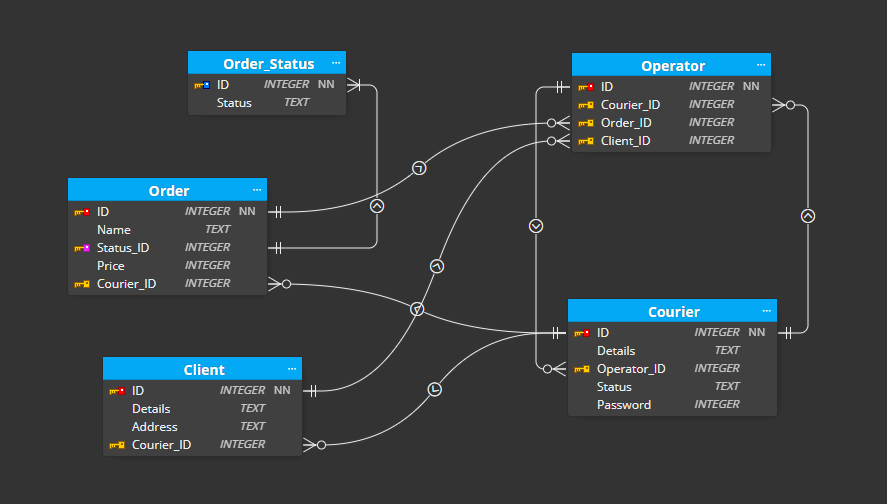
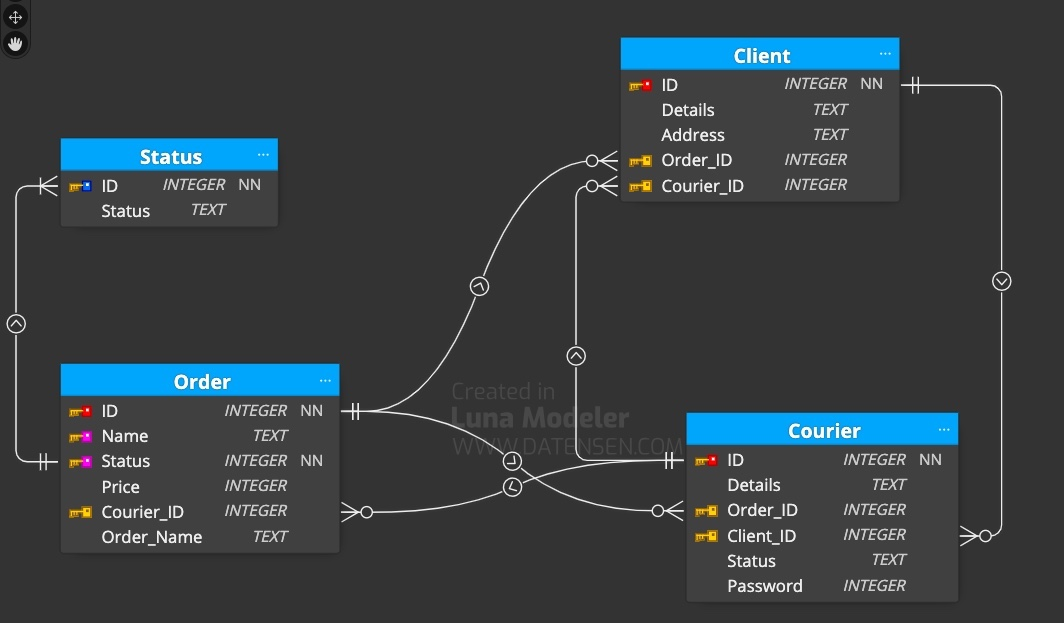
hfgjghjgh

diff --git a/src/repository/repository.py b/src/repository/repository.py
@@ -4,7 +4,7 @@ import sqlite3
 import xml.etree.ElementTree as ET
 import yaml
 
-from src.models.models import Order, Client, Operator, Courier
+from src.models.models import Order, Client, Courier
 
 
 class Repository:
@@ -24,16 +24,40 @@ class Repository:
         return Order(id=row["ID"], name=row["Name"], status=row["Status"], price=row["Price"], courier_id=row["Courier_ID"])
     
     def get_courier(self, id: int):
-        self.cursor.execute("SELECT ID, Details, Order_ID, Client_ID, Operator_ID, Status, Password FROM Courier WHERE ID = ?", (id,))
+        self.cursor.execute("SELECT ID, Details, Order_ID, Client_ID, Status, Password FROM Courier WHERE ID = ?", (id,))
         row = self.cursor.fetchone()
-        return Courier(id=row["ID"], details=row["Details"], status=row["Status"], order_id=row["Order_ID"], client_id=row["Client_ID"], operator_id=row["Operator_ID"], password=row["Password"])
+        return Courier(id=row["ID"], details=row["Details"], status=row["Status"], order_id=row["Order_ID"], client_id=row["Client_ID"], password=row["Password"])
 
-    def update_order_status(self, order_id: int, status: str):
-        self.cursor.execute("UPDATE Orders SET Status = ? WHERE ID = ?", (status, order_id))
+    def update_order_status(self, order_id: int):
+        stat=["На складе", "В работе", "Отменен", "Доставлен"]
+        print("\nВыберите новый статус")
+        print('1 - На складе')
+        print("2 - В работе")
+        print('3 - Отменен')
+        print('4 - Доставлен')
+        try:
+            status_id = int(input("\nВаш выбор: "))
+        except ValueError:
+            print('Ошибка ввода!')
+            return 0
+        if 0<status_id<5:
+            self.cursor.execute("UPDATE Orders SET Status = ? WHERE ID = ?", (stat[status_id-1], order_id))
+        else:
+            print("\nНет такого статуса!")
         return None
 
-    def update_courier_status(self, status: str, id: int):
-        self.cursor.execute("UPDATE Courier SET Status = ? WHERE ID = ?", (status, id))
+    def update_courier_status(self, id: int):
+        stat = ["Свободен", "Занят"]
+        print("\nВыберите новый статус")
+        print('1 - Свободен')
+        print("2 - Занят")
+        try:
+            status_id = int(input("\nВаш выбор: "))
+        except ValueError:
+            print('Ошибка ввода!')
+            return 0
+        if 0<status_id<3:
+            self.cursor.execute("UPDATE Courier SET Status = ? WHERE ID = ?", (stat[status_id-1],id))
         return None
     
     def get_all_orders(self):
@@ -48,11 +72,6 @@ class Repository:
     def update_client_address(self, address: str):
         self.cursor.execute('UPDATE Client SET Address = ? WHERE ID = 1', (address,))
         return None
-    
-    def get_operator(self):
-        self.cursor.execute("SELECT ID, Courier_ID, Order_ID, FROM Operator WHERE ID = 1")
-        row=self.cursor.fetchone()
-        return Operator(courier_id=row["Courier_ID"], id=row["ID"], order_id=row["Order_ID"], client_id=row["Client_ID"])
     
     def make_order(self, id: int):
         self.cursor.execute('UPDATE Orders SET Status = ? WHERE ID = ?', ('Заказано', id))
@@ -73,7 +92,7 @@ class Repository:
     def get_all_c(self, id: int):
         self.cursor.execute("SELECT * FROM Courier WHERE ID = ?", (id,))
         rows=self.cursor.fetchall()
-        return [Courier(id=row["ID"], details=row["Details"], order_id=row["Order_ID"], operator_id=row["Operator_ID"], client_id=row["Client_ID"], status=row["Status"], password=row["Password"]) for row in rows]
+        return [Courier(id=row["ID"], details=row["Details"], order_id=row["Order_ID"], client_id=row["Client_ID"], status=row["Status"], password=row["Password"]) for row in rows]
 
     def get_new_order(self, id: int):
         self.cursor.execute("SELECT ID, Name, Status, Price, Courier_ID FROM Orders WHERE Courier_ID = ?", (id,))
@@ -85,10 +104,10 @@ class Repository:
         self.conn.close()
 
     def get_all_couriers(self):
-        self.cursor.execute("SELECT ID, Details, Order_ID, Client_ID, Operator_ID, Status, Password FROM Courier",)
+        self.cursor.execute("SELECT ID, Details, Order_ID, Client_ID, Status, Password FROM Courier",)
         rows = self.cursor.fetchall()
         return [Courier(id=row["ID"], details=row["Details"], status=row["Status"], order_id=row["Order_ID"],
-                       client_id=row["Client_ID"], operator_id=row["Operator_ID"], password=row["Password"]) for row in rows]
+                       client_id=row["Client_ID"], password=row["Password"]) for row in rows]
 
     def make_json(self):
         self.cursor.execute("SELECT c.Details, c.ID, o.Name, o.Status, o.Price FROM Courier c LEFT JOIN Orders o ON c.Order_ID = o.ID WHERE c.ID IN (1, 2, 3)")

diff --git a/src/main/python/main.py b/src/main/python/main.py
@@ -52,6 +52,7 @@ def main():
                 except ValueError:
                     print("\nОшибка ввода!")
                     return
+
                 if len(repo.get_all_o(id))>0:
                     order = repo.get_order(id)
 
@@ -86,11 +87,14 @@ def main():
                 else:
                     print("\nНет такого курьера!")
 
+            elif choice =='0':
+                continue
+
             else:
                 print("\nНеверный выбор!")
 
         elif choice == '2':
-            if input("Введите пароль: ") == '123123':
+            if input("\nВведите пароль: ") == '123123':
                 print("\nВыберите действие:")
                 print('1 - Отследить заказ')
                 print("2 - Посмотреть новые заказы для курьера")
@@ -103,6 +107,9 @@ def main():
                 print("0 - Выход")
                 choice=input("Ваш выбор: ")
                 if choice == '1':
+                    orders=repo.get_all_orders()
+                    for order in orders:
+                        print(f'{order.id},{order.name}')
                     try:
                         id=int(input("Введите ID товара: "))
                     except ValueError:
@@ -167,17 +174,19 @@ def main():
                         print(f'{courier.id}, {courier.status}')
 
                 elif choice == "8":
-                    status=input("\nВведите новый статус курьера: ")
                     try:
                         id=int(input("\nВведите ID курьера: "))
                     except ValueError:
                         print("\nОшибка ввода!")
                         return
                     if len(repo.get_all_c(id))>0:
-                        repo.update_courier_status(status, id)
+                        repo.update_courier_status(id)
                     else:
                         print("\nНет такого курьера!")
                     print('\nГотово')
+
+                elif choice == '0':
+                    continue
 
                 else:
                     print("\nНеверный выбор!")
@@ -212,10 +221,12 @@ def main():
             print('3 - Обновить статус заказа')
             print('4 - Посмотреть адрес клиента')
             print('5 - Посмотреть контактные данные клиента')
-
             print("0 - Выход")
             choice=input("Ваш выбор: ")
             if choice == '1':
+                orders=repo.get_all_orders()
+                for order in orders:
+                    print(f'{order.id}, {order.name}')
                 try:
                     id=int(input("Введите ID заказа: "))
                 except ValueError:
@@ -238,10 +249,8 @@ def main():
                     except ValueError:
                         print("\nОшибка ввода!")
                         return
-                    status = input("\nВведите новый статус: ")
                     if len(repo.get_all_o(id))>0:
-                        repo.update_order_status(id, status)
-                        print("\nГотово")
+                        repo.update_order_status(id)
                     else:
                         print("\nНет такого заказа!")
 
@@ -252,6 +261,9 @@ def main():
             elif choice == '5':
                     client=repo.get_client()
                     print(f'\n{client.details}')
+
+            elif choice =='0':
+                continue
 
             else:
                 print("\nНеверный выбор!")

diff --git a/src/database/db.py b/src/database/db.py
@@ -20,29 +20,17 @@ def create_tables(db_name: str = "orders.db"):
             FOREIGN KEY(Courier_ID) REFERENCES Courier(ID)
         )
 ''')
-    cursor.execute('''
-        CREATE TABLE IF NOT EXISTS Operator (
-            ID INTEGER PRIMARY KEY,
-            Courier_ID INTEGER,
-            Order_ID INTEGER,
-            Client_ID INTEGER,
-            FOREIGN KEY(Client_ID) REFERENCES Client(ID),
-            FOREIGN KEY(Order_ID) REFERENCES Orders(ID),
-            FOREIGN KEY(Courier_ID) REFERENCES Courier(ID)
-        )
-''')
+
     cursor.execute('''
         CREATE TABLE IF NOT EXISTS Courier (
             ID INTEGER PRIMARY KEY,
             Details TEXT,
             Order_ID INTEGER,
             Client_ID INTEGER,
-            Operator_ID INTEGER,
             Status TEXT,
             Password INTEGER,
             FOREIGN KEY(Order_ID) REFERENCES Orders(ID),
-            FOREIGN KEY(Client_ID) REFERENCES Client(ID),
-            FOREIGN KEY(Operator_ID) REFERENCES Operator(ID)
+            FOREIGN KEY(Client_ID) REFERENCES Client(ID)
         )
 ''')
     cursor.execute('''
@@ -84,7 +72,6 @@ def insert_data(db_name: str = "orders.db"):
         print("Добавлены товары.")
         client=['sdfsdf','sdfsdfsdf']
         cursor.execute('INSERT INTO Client (Address, Details) VALUES (?, ?)', client)
-        cursor.execute('INSERT INTO Operator (ID) VALUES (?)', (1,))
         cursor.executemany('INSERT INTO Courier (ID, Details, Status, Password) VALUES (?, ?, ?, ?)', couriers)
     conn.commit()
     conn.close()

diff --git a/src/models/models.py b/src/models/models.py
@@ -1,10 +1,3 @@
-class Operator:
-    def __init__(self, id, courier_id, order_id, client_id):
-        self.id = id #PK
-        self.courier_id = courier_id #FK
-        self.order_id = order_id #FK
-        self.client_id = client_id #FK
-
 class Client:
     def __init__(self, id, details, address, order_id, courier_id):
         self.id = id #PK
@@ -14,12 +7,11 @@ class Client:
         self.courier_id = courier_id
 
 class Courier:
-    def __init__(self, id, details, order_id, client_id, operator_id, status, password):
+    def __init__(self, id, details, order_id, client_id, status, password):
         self.id = id #PK
         self.details = details
         self.order_id = order_id #FK
         self.client_id = client_id #FK
-        self.operator_id = operator_id #FK
         self.status = status
         self.password = password
 
